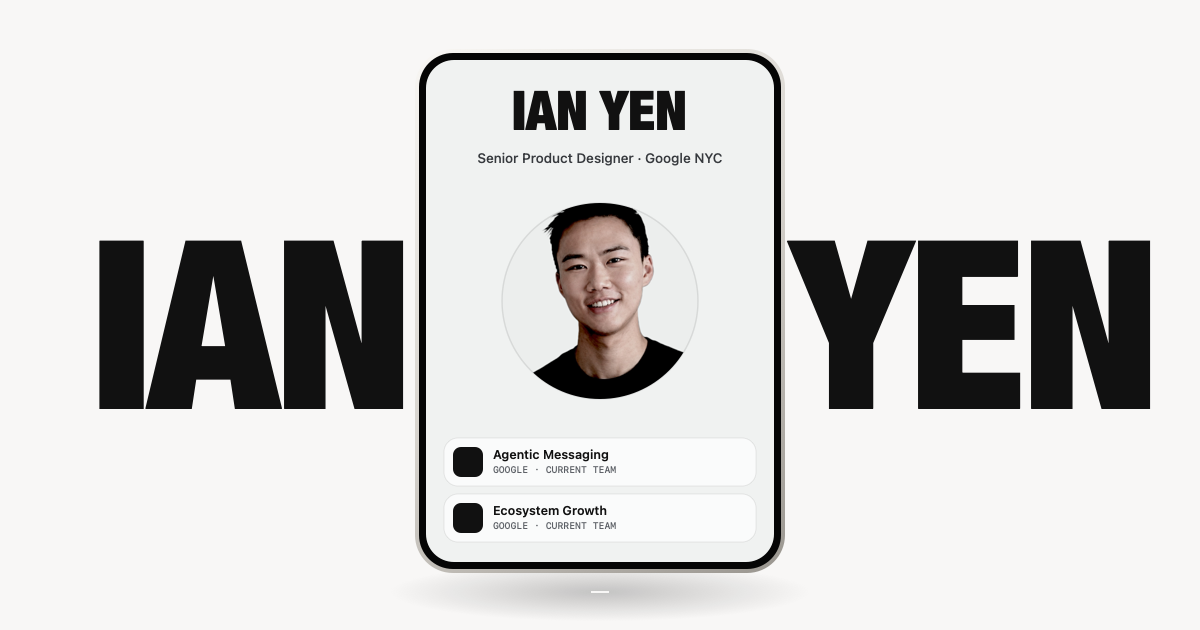
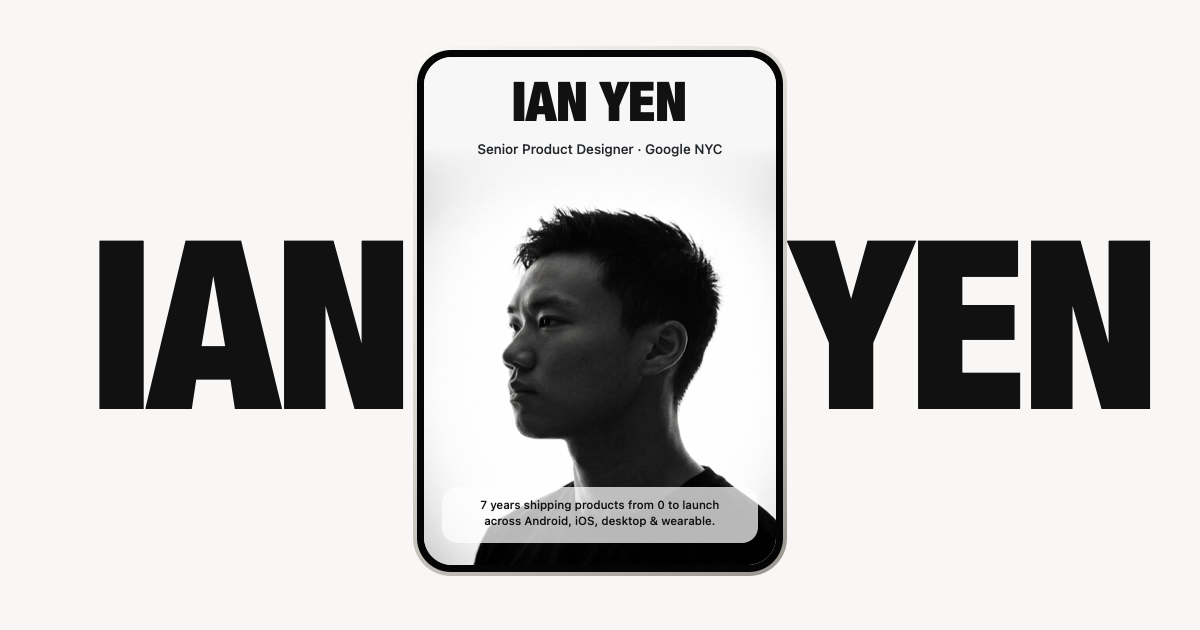
Match Foldfolio full-bleed side-profile hero layout, enlarge device 10%, and refresh OG preview

Changed region(s): [[0.3392, 0.0603, 0.6783, 0.9651]]

diff --git a/index.html b/index.html
@@ -30,11 +30,11 @@
   <link href="https://fonts.googleapis.com/css2?family=Big+Shoulders+Display:wght@600;700;800;900&family=Caveat:wght@500;600;700&family=Fraunces:ital,opsz,wght@0,9..144,100..900;1,9..144,100..900&family=Geist+Mono:wght@400;500;600&family=Geist:wght@300;400;500;600;700&family=Inter:wght@300;400;500;600&family=Sofia+Sans+Extra+Condensed:wght@800;900&display=swap" rel="stylesheet">
   <link rel="preload" as="font" type="font/ttf" href="assets/fonts/GoogleSansFlex-Variable.ttf" crossorigin>
   <link rel="preload" as="font" type="font/ttf" href="assets/fonts/GoogleSansMono-Variable.ttf" crossorigin>
-  <link rel="preload" as="image" href="assets/ian_hero_cutout.png?v=233" fetchpriority="high">
+  <link rel="preload" as="image" href="assets/ian_profile_bw.jpg?v=240" fetchpriority="high">
   <link rel="preload" as="image" href="assets/memoji_about_bust.gif?v=202" fetchpriority="high">
   <link rel="preload" as="image" href="assets/avatar_real_photo.jpg?v=153" fetchpriority="high">
   <link rel="stylesheet" href="style.css?v=234">
-  <link rel="stylesheet" href="foldfolio.css?v=239">
+  <link rel="stylesheet" href="foldfolio.css?v=240">
 </head>
 <body data-theme="light">
   <!-- Viewport-Wrapping Device Frame Bezel (Active When Zoomed Inside Opened Foldable Phone) -->
@@ -194,27 +194,23 @@
                 </div>
               </div>
 
-              <!-- Front Lock Screen Cover (Visible when phone is closed at scroll = 0) -->
+              <!-- Front Lock Screen Cover (Visible when phone is closed at scroll = 0 — matches foldfolio.framer.website) -->
               <div class="fold-face is-cover">
                 <div class="fold-bezel">
                   <div class="fold-screen">
                     <div class="fold-lock-screen">
+                      <img src="assets/ian_profile_bw.jpg?v=240" alt="Ian Yen editorial side-profile portrait" class="fold-lock-portrait-full" decoding="sync">
+                      <div class="fold-lock-portrait-fade" aria-hidden="true"></div>
+
                       <div class="fold-lock-top">
-                        <div class="fold-lock-time" data-fold-clock>13:52</div>
+                        <div class="fold-lock-time" data-fold-clock>14:45</div>
                         <div class="fold-lock-sub">Senior Product Designer &middot; Google NYC</div>
                       </div>
 
-                      <div class="fold-lock-center">
-                        <div class="fold-lock-avatar-wrap">
-                          <img src="assets/ian_hero_cutout.png?v=233" alt="Ian Yen portrait" class="fold-lock-avatar-img" decoding="sync">
-                        </div>
-
+                      <div class="fold-lock-bottom">
                         <div class="fold-intro-glass">
                           7 years of experience taking products from zero to launch across Android, iOS, desktop and wearable.
                         </div>
-                      </div>
-
-                      <div class="fold-lock-bottom">
 
                         <div class="fold-lock-actions">
                           <a href="https://www.linkedin.com/in/ian-yen/" target="_blank" rel="noopener noreferrer" class="fold-lock-icon-btn" aria-label="LinkedIn">
@@ -257,10 +253,8 @@
                         <svg width="22" height="11" viewBox="0 0 22 11" fill="none"><rect x="0.75" y="0.75" width="17.5" height="9.5" rx="2.5" stroke="#111" stroke-width="1.3"/><rect x="2.6" y="2.6" width="13.8" height="5.8" rx="1.2" fill="#111"/><path d="M20 3.6v3.8" stroke="#111" stroke-width="1.5" stroke-linecap="round"/></svg>
                       </span>
                     </div>
-                    <div class="fold-inside-right-panel">
-                      <div class="fold-lock-avatar-wrap" style="width:280px;height:280px;">
-                        <img src="assets/ian_hero_cutout.png?v=233" alt="Ian Yen" class="fold-lock-avatar-img" decoding="sync">
-                      </div>
+                    <div class="fold-inside-right-panel is-full-portrait">
+                      <img src="assets/ian_profile_bw.jpg?v=240" alt="Ian Yen" class="fold-inside-portrait-img" decoding="sync">
                     </div>
                   </div>
                 </div>
@@ -631,6 +625,6 @@
   </main>
 
   <script src="script.js?v=220"></script>
-  <script src="foldfolio.js?v=238"></script></script></script></script>
+  <script src="foldfolio.js?v=240"></script></script></script></script>
 </body>
 </html>

diff --git a/foldfolio.css b/foldfolio.css
@@ -825,13 +825,52 @@ body[data-fold-bg="orbit"] .fold-ambient-orbit { opacity: 1; }
   position: relative;
   width: 100%;
   height: 100%;
-  background: var(--ff-lock-bg);
+  background: #F4F5F4;
   display: flex;
   flex-direction: column;
   align-items: center;
   justify-content: space-between;
-  padding: 32px 24px 24px;
+  padding: 40px 24px 24px;
   overflow: hidden;
+}
+
+/* Full-bleed backlit side-profile portrait matching foldfolio.framer.website */
+.fold-lock-portrait-full {
+  position: absolute;
+  left: 0;
+  right: 0;
+  top: 138px;
+  width: 100%;
+  height: calc(100% - 138px);
+  object-fit: cover;
+  object-position: 50% 18%;
+  z-index: 1;
+  pointer-events: none;
+}
+
+.fold-lock-portrait-fade {
+  position: absolute;
+  left: 0;
+  right: 0;
+  top: 136px;
+  height: 54px;
+  background: linear-gradient(180deg, #F4F5F4 0%, rgba(244, 245, 244, 0) 100%);
+  z-index: 2;
+  pointer-events: none;
+}
+
+.fold-inside-right-panel.is-full-portrait {
+  padding: 0;
+  background: #F4F5F4;
+  overflow: hidden;
+}
+
+.fold-inside-portrait-img {
+  width: 100%;
+  height: 100%;
+  object-fit: cover;
+  object-position: 50% 24%;
+  display: block;
 }
 
 .fold-lock-avatar-wrap {
@@ -869,12 +908,29 @@ body.is-fold-mode[data-theme="dark"] .fold-inside-right-panel {
   background: #0F1012;
 }
 
+/* Keep the backlit studio lock screen crisp & high-contrast in both light & dark themes */
 body.is-fold-mode[data-theme="dark"] .fold-lock-screen {
-  background: #0F1012;
+  background: #F4F5F4;
 }
 body.is-fold-mode[data-theme="dark"] .fold-lock-time,
 body.is-fold-mode[data-theme="dark"] .fold-lock-sub {
-  color: #F6F6F5;
+  color: #111111;
+}
+body.is-fold-mode[data-theme="dark"] .fold-intro-glass {
+  background: linear-gradient(
+    145deg,
+    rgba(255, 255, 255, 0.44) 0%,
+    rgba(255, 255, 255, 0.16) 48%,
+    rgba(255, 255, 255, 0.28) 100%
+  );
+  border-color: rgba(255, 255, 255, 0.72);
+  color: #111111;
+}
+body.is-fold-mode[data-theme="dark"] .fold-unfold-pill,
+body.is-fold-mode[data-theme="dark"] .fold-lock-icon-btn {
+  background: rgba(255, 255, 255, 0.88);
+  border-color: rgba(255, 255, 255, 0.92);
+  color: #111111;
 }
 body.is-fold-mode[data-theme="dark"] .fold-lock-avatar-wrap {
   background: radial-gradient(70% 70% at 50% 42%, #242730 0%, #14161B 100%);

diff --git a/foldfolio.js b/foldfolio.js
@@ -86,9 +86,9 @@
     const computeBaseScale = () => {
       const vw = window.innerWidth;
       const vh = window.innerHeight;
-      const maxW = (vw - 64) / 1000;
-      const maxH = (vh - 190) / 684;
-      baseScale = Math.min(1.02, Math.max(0.32, Math.min(maxW, maxH)));
+      const maxW = (vw - 48) / 1000;
+      const maxH = (vh - 150) / 684;
+      baseScale = Math.min(1.12, Math.max(0.35, Math.min(maxW, maxH) * 1.10));
       document.documentElement.style.setProperty('--ff-scale', baseScale.toFixed(4));
     };
     computeBaseScale();
